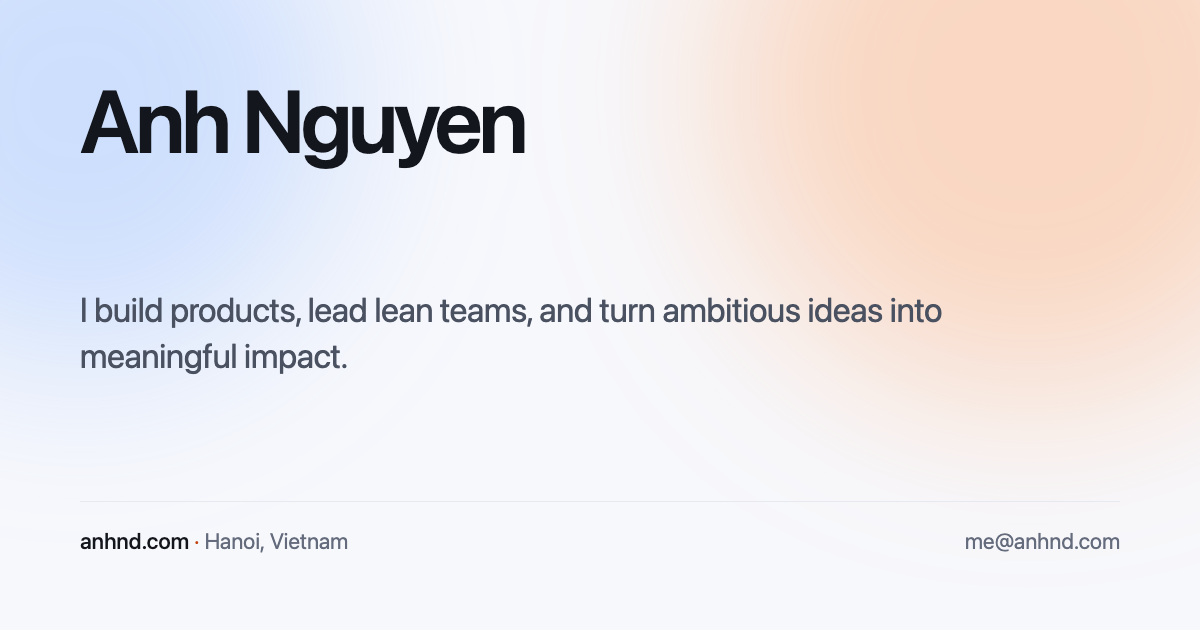
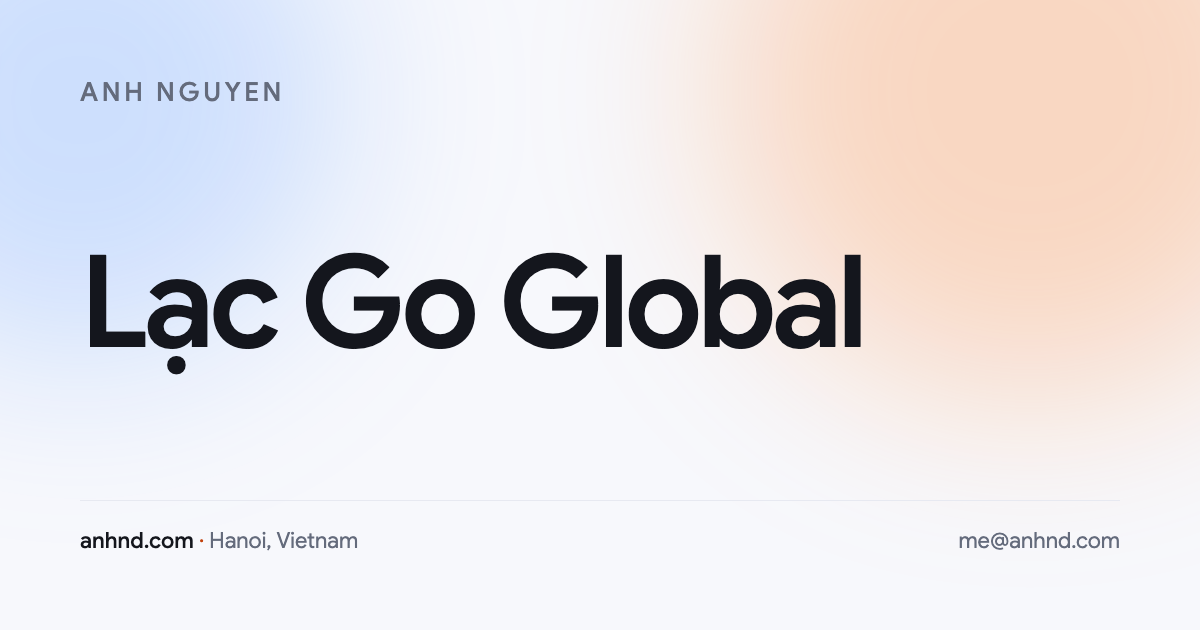
feat: reduce the home page to a single line
The landing page is now "Lạc Go Global" on an empty screen — no nav, no
footer, no background wash, no links. The profile sections it replaces are in
the history if they are ever wanted again.

Two consequences worth knowing: /tools no longer has a link pointing at it
(it keeps its sitemap entry and its own nav), and the theme switch, which
moved out of the nav into the footer, is reachable only from the inner pages.
The share card repeats the same line.

diff --git a/app/page.tsx b/app/page.tsx
@@ -1,39 +1,20 @@
 import type { Metadata } from 'next'
-import Link from 'next/link'
-import Nav from './components/Nav'
-import Footer from './components/Footer'
-import Section from './components/Section'
 import StructuredData from './components/StructuredData'
-import { getSortedNotesData } from '@/lib/markdown'
-import { SHOW_BLOG, SITE, education, facts, focusAreas } from '@/lib/site'
+import { SITE } from '@/lib/site'
 
 export const metadata: Metadata = {
   alternates: { canonical: '/' },
+  description: `${SITE.statement} — ${SITE.intro}`,
+  openGraph: { description: `${SITE.statement} — ${SITE.intro}` },
 }
 
-const arrowRight = (
-  <svg xmlns="http://www.w3.org/2000/svg" fill="none" viewBox="0 0 24 24" strokeWidth={1.8} stroke="currentColor" className="w-3.5 h-3.5" aria-hidden="true">
-    <path strokeLinecap="round" strokeLinejoin="round" d="M17.25 8.25L21 12m0 0l-3.75 3.75M21 12H3" />
-  </svg>
-)
-
+/**
+ * The landing page carries one line and nothing else: no nav, no footer, no
+ * decoration. Anything added here breaks that, so add it somewhere else.
+ */
 export default function Home() {
-  const latestNotes = SHOW_BLOG ? getSortedNotesData().slice(0, 3) : []
-
   return (
-    <main className="min-h-screen flex flex-col bg-page">
-      {/* A personal profile page: ProfilePage wraps the Person it is about. */}
-      <StructuredData
-        type="ProfilePage"
-        data={{
-          '@id': `${SITE.url}/#profilepage`,
-          url: SITE.url,
-          name: `${SITE.name} — personal profile`,
-          isPartOf: { '@id': `${SITE.url}/#website` },
-          mainEntity: { '@id': `${SITE.url}/#person` },
-          inLanguage: 'en',
-        }}
-      />
+    <main className="min-h-screen bg-page flex items-center justify-center px-6">
       <StructuredData
         type="WebSite"
         data={{
@@ -55,7 +36,6 @@ export default function Home() {
           givenName: 'Anh',
           familyName: 'Nguyen',
           url: SITE.url,
-          mainEntityOfPage: { '@id': `${SITE.url}/#profilepage` },
           description: SITE.intro,
           image: `${SITE.url}${SITE.image}`,
           email: `mailto:${SITE.email}`,
@@ -69,146 +49,16 @@ export default function Home() {
             name: SITE.university.name,
             url: SITE.university.url,
           },
-          knowsAbout: focusAreas.map((area) => area.title),
           sameAs: [SITE.github, SITE.my],
         }}
       />
 
-      <Nav />
-
-      {/* Masthead */}
-      <section aria-label="Introduction" className="relative px-5 sm:px-6">
-        <div className="aurora" aria-hidden="true" />
-
-        <header className="max-w-4xl mx-auto relative pt-24 sm:pt-32 pb-16 sm:pb-20">
-          <h1
-            className="text-ink leading-[1.02] mb-6"
-            style={{ fontSize: 'clamp(2.75rem, 7vw, 4.5rem)', fontWeight: 600, letterSpacing: '-0.04em' }}
-          >
-            Anh Nguyen
-          </h1>
-          <p
-            className="text-ink-2 leading-[1.45] max-w-[34ch]"
-            style={{ fontSize: 'clamp(1.25rem, 2.6vw, 1.75rem)', fontWeight: 400, letterSpacing: '-0.015em' }}
-          >
-            {SITE.intro}
-          </p>
-
-          <a
-            href={`mailto:${SITE.email}`}
-            className="mt-9 inline-flex items-center gap-1.5 pb-0.5 text-sm text-ink border-b border-line-strong hover:text-brand-ink hover:border-brand transition-colors"
-            style={{ fontWeight: 500 }}
-          >
-            {SITE.email}
-            {arrowRight}
-          </a>
-        </header>
-      </section>
-
-      {/* 01 — Profile */}
-      <Section id="profile" index="01" title="Profile">
-        <dl className="grid grid-cols-2 gap-x-10 gap-y-7">
-          {facts.map((fact) => (
-            <div key={fact.label}>
-              <dt className="text-xs text-ink-3 mb-1.5" style={{ fontWeight: 400 }}>{fact.label}</dt>
-              <dd className="text-[15px] text-ink leading-snug" style={{ fontWeight: 500 }}>{fact.value}</dd>
-            </div>
-          ))}
-        </dl>
-      </Section>
-
-      {/* 02 — Background */}
-      <Section id="background" index="02" title="Background">
-        <div className="space-y-4 text-base text-ink-2 leading-[1.75] max-w-[66ch]" style={{ fontWeight: 400 }}>
-          <p>
-            15+ years building across gaming, government tech and enterprise systems — turning real problems into
-            products, from mobile apps to data platforms.
-          </p>
-          <p>
-            I work best with lean teams: a few people who own the whole problem, ship early, and keep the feedback loop
-            short. As a solo founder I wear every hat, which keeps me honest about what actually matters.
-          </p>
-        </div>
-      </Section>
-
-      {/* 03 — What I do */}
-      <Section id="what-i-do" index="03" title="What I do">
-        <dl className="divide-y divide-line">
-          {focusAreas.map((area, index) => (
-            <div key={area.title} className={index === 0 ? 'pb-5' : 'py-5 last:pb-0'}>
-              <dt className="text-[15px] text-ink mb-1.5" style={{ fontWeight: 500 }}>{area.title}</dt>
-              <dd className="text-sm text-ink-2 leading-relaxed max-w-[62ch]" style={{ fontWeight: 400 }}>
-                {area.description}
-              </dd>
-            </div>
-          ))}
-        </dl>
-      </Section>
-
-      {/* 04 — Education */}
-      <Section id="education" index="04" title="Education">
-        <dl className="divide-y divide-line">
-          {education.map((item, index) => (
-            <div
-              key={item.degree}
-              className={`flex flex-col sm:flex-row sm:items-baseline sm:justify-between gap-1 sm:gap-8 ${index === 0 ? 'pb-5' : 'py-5 last:pb-0'}`}
-            >
-              <dt className="text-[15px] text-ink" style={{ fontWeight: 500 }}>{item.degree}</dt>
-              <dd className="text-sm text-ink-3 shrink-0" style={{ fontWeight: 400 }}>{item.school}</dd>
-            </div>
-          ))}
-        </dl>
-      </Section>
-
-      {/* Writing (only when the blog is enabled) */}
-      {SHOW_BLOG && latestNotes.length > 0 && (
-        <Section id="writing" index="05" title="Writing">
-          <ul className="divide-y divide-line">
-            {latestNotes.map((note, index) => (
-              <li key={note.id}>
-                <Link
-                  href={`/notes/${note.id}`}
-                  className={`group flex flex-col sm:flex-row sm:items-baseline gap-1 sm:gap-6 ${index === 0 ? 'pb-5' : 'py-5'}`}
-                >
-                  <time dateTime={note.date} className="text-xs text-ink-3 sm:w-28 shrink-0 tabular-nums" style={{ fontWeight: 400 }}>
-                    {new Date(note.date).toLocaleDateString('en-US', { year: 'numeric', month: 'short', day: 'numeric' })}
-                  </time>
-                  <span className="text-[15px] text-ink group-hover:text-brand-ink transition-colors" style={{ fontWeight: 500 }}>
-                    {note.title}
-                  </span>
-                </Link>
-              </li>
-            ))}
-          </ul>
-        </Section>
-      )}
-
-      {/* Contact */}
-      <Section id="contact" index={SHOW_BLOG && latestNotes.length > 0 ? '06' : '05'} title="Contact">
-        <p className="text-base text-ink-2 leading-relaxed max-w-[62ch] mb-5" style={{ fontWeight: 400 }}>
-          Building something, or want to compare notes on leading lean teams? I answer every email.
-        </p>
-        <div className="flex flex-wrap items-center gap-x-8 gap-y-3 text-sm">
-          <a
-            href={`mailto:${SITE.email}`}
-            className="inline-flex items-center gap-1.5 pb-0.5 text-ink border-b border-line-strong hover:text-brand-ink hover:border-brand transition-colors"
-            style={{ fontWeight: 500 }}
-          >
-            {SITE.email}
-            {arrowRight}
-          </a>
-          <a
-            href={SITE.github}
-            target="_blank"
-            rel="noopener noreferrer"
-            className="text-ink-3 hover:text-ink transition-colors"
-          >
-            GitHub
-          </a>
-        </div>
-      </Section>
-
-      <Footer />
+      <h1
+        className="text-center text-ink text-balance leading-[1.05]"
+        style={{ fontSize: 'clamp(2.75rem, 11vw, 7rem)', fontWeight: 600, letterSpacing: '-0.045em' }}
+      >
+        {SITE.statement}
+      </h1>
     </main>
   )
 }

diff --git a/scripts/og-image.html b/scripts/og-image.html
@@ -36,19 +36,18 @@
         flex-direction: column;
         justify-content: space-between;
       }
+      .eyebrow {
+        font-size: 26px;
+        font-weight: 500;
+        letter-spacing: 0.14em;
+        text-transform: uppercase;
+        color: #646B7C;
+      }
       h1 {
-        font-size: 88px;
+        font-size: 128px;
         font-weight: 600;
         letter-spacing: -0.04em;
         line-height: 1.02;
-      }
-      .lead {
-        font-size: 34px;
-        font-weight: 400;
-        line-height: 1.35;
-        letter-spacing: -0.015em;
-        color: #4A5160;
-        max-width: 940px;
       }
       .rule { height: 1px; background: #E7E9F1; }
       .meta {
@@ -67,9 +66,9 @@
     <div class="wash-a"></div>
     <div class="wash-b"></div>
     <div class="frame">
-      <h1>Anh Nguyen</h1>
+      <p class="eyebrow">Anh Nguyen</p>
 
-      <p class="lead">I build products, lead lean teams, and turn ambitious ideas into meaningful impact.</p>
+      <h1>L&#7841;c Go Global</h1>
 
       <div>
         <div class="rule"></div>

diff --git a/app/components/Nav.tsx b/app/components/Nav.tsx
@@ -2,14 +2,13 @@
 
 import Link from 'next/link'
 import { usePathname } from 'next/navigation'
-import ThemeToggle from './ThemeToggle'
 import { SHOW_BLOG } from '@/lib/site'
 
 // Tools are deliberately not here: the site leads with the person, and the only
 // link to the tools lives in the footer.
 const links = SHOW_BLOG ? [{ href: '/notes', label: 'Notes' }] : []
 
-/** A quiet top bar: the name and the theme switch. Nothing else. */
+/** A quiet top bar for the inner pages: the name, and Notes when the blog is on. */
 export default function Nav({ wide = false }: { wide?: boolean }) {
   const pathname = usePathname()
 
@@ -41,8 +40,6 @@ export default function Nav({ wide = false }: { wide?: boolean }) {
               </Link>
             )
           })}
-          {links.length > 0 && <span className="w-px h-4 bg-line mx-2" aria-hidden="true" />}
-          <ThemeToggle />
         </div>
       </nav>
     </header>

diff --git a/app/components/Footer.tsx b/app/components/Footer.tsx
@@ -1,4 +1,5 @@
 import Link from 'next/link'
+import ThemeToggle from './ThemeToggle'
 import { SHOW_BLOG, SITE } from '@/lib/site'
 
 export default function Footer({ wide = false }: { wide?: boolean }) {
@@ -12,6 +13,7 @@ export default function Footer({ wide = false }: { wide?: boolean }) {
         </p>
 
         <nav aria-label="Footer" className="flex flex-wrap items-center justify-center gap-x-5 gap-y-2 text-sm text-ink-3">
+          <ThemeToggle />
           {SHOW_BLOG && <Link href="/notes" className="hover:text-ink transition-colors">Notes</Link>}
           <a href={SITE.my} target="_blank" rel="noopener noreferrer" className="hover:text-ink transition-colors">My</a>
           <Link href="/tools" className="hover:text-ink transition-colors">Tools</Link>

diff --git a/lib/site.ts b/lib/site.ts
@@ -14,6 +14,8 @@ export const SITE = {
     name: 'Hanoi University of Science and Technology',
     url: 'https://hust.edu.vn',
   },
+  /** The only line on the landing page: the Lạc bird of the Đông Sơn drums, flying out. */
+  statement: 'Lạc Go Global',
   intro: 'I build products, lead lean teams, and turn ambitious ideas into meaningful impact.',
 } as const
 

diff --git a/CLAUDE.md b/CLAUDE.md
@@ -20,14 +20,14 @@ it, but `yarn lint` dies: typescript-eslint refuses to load against the TS 7 API
 
 ```
 app/
-├── page.tsx              ← Home: the whole personal site (masthead, profile, background,
-│                         what I do, education, contact). There is no /about page.
+├── page.tsx              ← Landing page: one line (SITE.statement). No nav, no footer,
+│                         no decoration, no /about page.
 ├── layout.tsx            ← Root layout, metadata, fonts
 ├── globals.css           ← Global styles, CSS variables
 ├── not-found.tsx         ← 404 page
 ├── components/
-│   ├── Nav.tsx           ← Quiet top bar: name + theme switch (Notes only when SHOW_BLOG)
-│   ├── Footer.tsx        ← Shared footer; the only link to the tools lives here
+│   ├── Nav.tsx           ← Quiet top bar for the inner pages (not the landing page)
+│   ├── Footer.tsx        ← Shared footer: theme switch, and the only link to the tools
 │   ├── Section.tsx       ← The page rhythm: hairline rule, numbered label in the left margin
 │   ├── ToolIcon.tsx      ← macOS-style gradient app icon (glyph + data-tint)
 │   ├── FadeIn.tsx        ← Fade-in-on-scroll wrapper (client); content stays visible without JS
@@ -110,11 +110,13 @@ soft color wash (`.aurora`) behind hero sections, definition lists split into tw
 only for links and accents. The tools keep the window chrome: generous corners (windows 14px, fields
 and buttons 8–10px), soft layered shadows, gradient app icons.
 
-The home page is the whole personal site — a type-only masthead (no photo), then numbered sections
-(`Section`) whose labels sit in the left margin. Tools are not advertised there: the single entry
-point is the small `Tools` link in the footer (and `/tools` itself). Keep the chrome and the content
-on the same grid: page padding goes *outside* the measured `max-w-4xl` column, exactly as `Section`
-does it, otherwise the nav and footer drift away from the text.
+The home page is a landing page and holds exactly one meaningful line, `SITE.statement`, centered on
+an otherwise empty screen — no nav, no footer, no background wash, no links. Resist adding anything
+to it; put it on an inner page instead. `/tools` is therefore reachable only by its URL (it stays in
+the sitemap). The inner pages still carry the nav and the footer, and the footer is where the theme
+switch lives. `Section` (numbered label in the left margin) is the rhythm for those pages; keep the
+chrome and the content on the same grid — page padding goes *outside* the measured `max-w-4xl`
+column, exactly as `Section` does it, or the nav and footer drift away from the text.
 
 **Colors come only from tokens** defined in `app/globals.css` (`:root` for light, `[data-theme="dark"]`
 and a `prefers-color-scheme` block for dark) and exposed as Tailwind utilities. Never write a hex color
@@ -166,8 +168,9 @@ Things that are easy to break, so check them after touching metadata:
 - Every page needs its own `openGraph.images`: a page that sets `openGraph` replaces the root's,
   image included. `toolMetadata()` handles this for the tools.
 - `/status`, the 404 page and (while `SHOW_BLOG` is false) `/notes` are `noindex`.
-- `public/og-image.png` is generated from `scripts/og-image.html`; regenerate it when the headline
-  copy changes, and keep `public/site.webmanifest` in step with the site name and theme color.
+- `public/og-image.png` is generated from `scripts/og-image.html` and repeats `SITE.statement`;
+  regenerate it whenever that line changes, and keep `public/site.webmanifest` in step with the site
+  name and theme color.
 
 ## Rules
 
